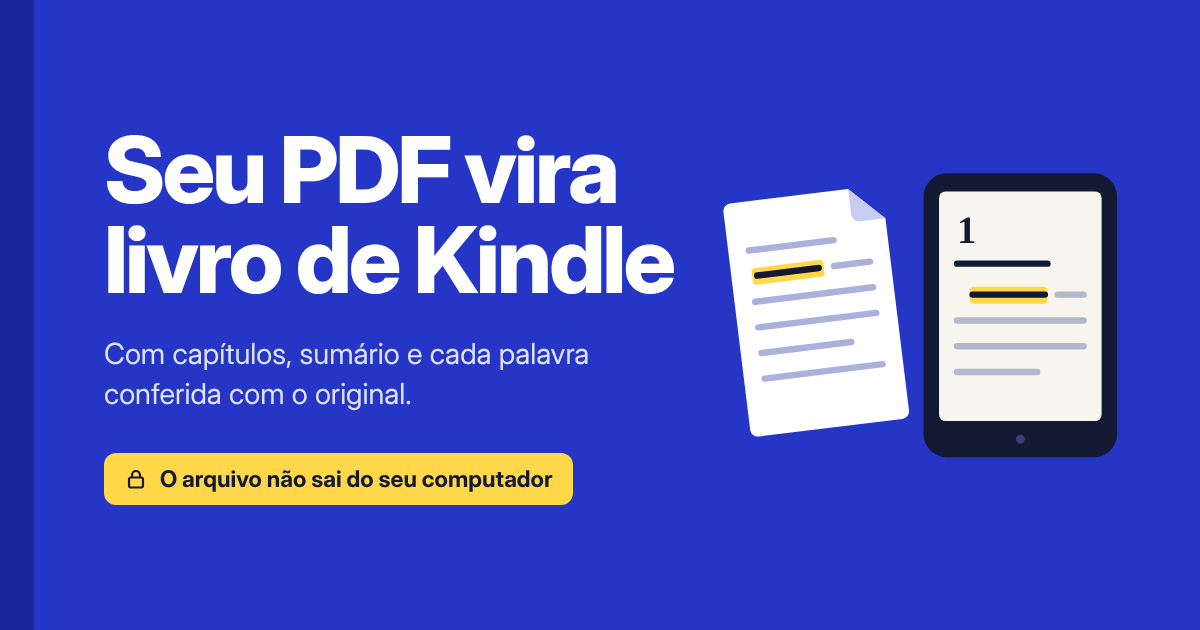
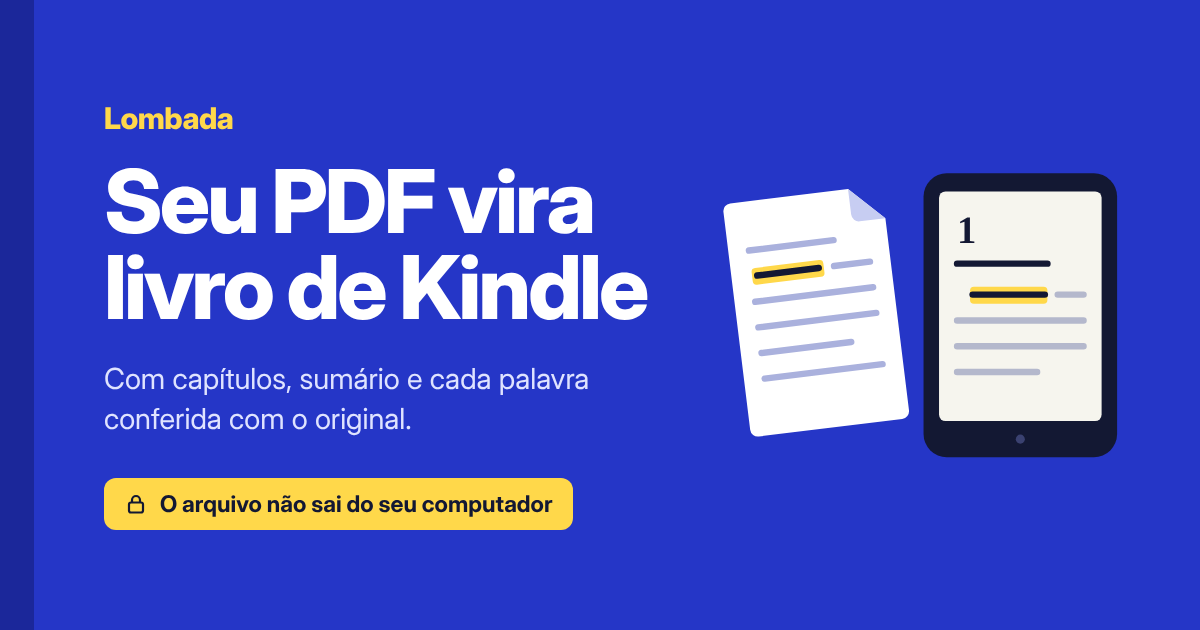
Versão 2.2.0: o app passa a se chamar Lombada
Claude-Session: https://claude.ai/code/session_01K8kEQsfvnjREWZAPRDKx4g

Changed region(s): [[0.0617, 0.181, 0.5858, 0.5127], [0.0617, 0.5429, 0.4933, 0.8444]]

diff --git a/index.html b/index.html
@@ -3,12 +3,12 @@
 <head>
 <meta charset="utf-8">
 <meta name="viewport" content="width=device-width,initial-scale=1,viewport-fit=cover">
-<title>Conversor PDF para EPUB</title>
+<title>Lombada: PDF para EPUB</title>
 <meta name="description" content="Converta PDF em EPUB para ler no Kindle, com capítulos, sumário, páginas numeradas e o texto conferido palavra por palavra. Tudo no seu navegador: o arquivo não sai do seu computador.">
 <meta name="theme-color" content="#2536c7">
 <meta property="og:type" content="website">
-<meta property="og:site_name" content="Conversor PDF para EPUB">
-<meta property="og:title" content="Conversor PDF para EPUB">
+<meta property="og:site_name" content="Lombada">
+<meta property="og:title" content="Lombada: PDF para EPUB">
 <meta property="og:description" content="PDF em EPUB para o Kindle, com capítulos, sumário e o texto igual ao original. Funciona no navegador; seus arquivos não saem do computador.">
 <meta property="og:url" content="https://mizaeldouglas.github.io/conversor-epub/">
 <meta property="og:image" content="https://mizaeldouglas.github.io/conversor-epub/og.png">
@@ -22,7 +22,7 @@
 <link rel="preconnect" href="https://fonts.gstatic.com" crossorigin>
 <link rel="stylesheet" href="https://fonts.googleapis.com/css2?family=Bricolage+Grotesque:opsz,wdth,wght@12..96,75..100,400..800&family=Literata:ital,opsz,wght@0,7..72,400..700;1,7..72,400&display=swap">
 <style>
-/* Conversor PDF para EPUB
+/* Lombada: PDF para EPUB
    Ideia: a página é uma mesa de trabalho clara; a área de soltar é a capa de um livro (azul-ultramar, lombada à esquerda)
    e o amarelo de marca-texto aparece só onde uma palavra é conferida ou uma ação começa.
    A interface fala em grotesca (Bricolage); os livros falam em Literata, a fonte de leitura. */
@@ -73,7 +73,8 @@ a{color:var(--accent);text-underline-offset:2px}
 .top{max-width:1200px;margin:0 auto;padding:18px 20px 14px;display:flex;align-items:center;gap:16px}
 .brand{display:flex;align-items:center;gap:12px;flex:1;min-width:0}
 .brand svg{flex:none}
-.brand h1{font:700 1.12rem/1.2 var(--f-ui);margin:0;letter-spacing:-.01em}
+.brand h1{font:800 1.35rem/1.1 var(--f-ui);margin:0;letter-spacing:-.02em;display:flex;align-items:baseline;gap:10px;flex-wrap:wrap}
+.brand .tag{font:550 13px/1.2 var(--f-ui);letter-spacing:0;color:var(--muted)}
 .top-actions{display:flex;gap:6px;align-items:center}
 
 /* botões */
@@ -368,7 +369,7 @@ body.noscroll{overflow:hidden}
 <header class="top">
   <div class="brand">
     <svg width="36" height="36" viewBox="0 0 40 40" aria-hidden="true"><rect x="6" y="3" width="28" height="34" rx="5" fill="var(--cover)"/><rect x="6" y="3" width="6" height="34" rx="3" fill="var(--cover-deep)"/><path d="M22 3h7.5v15.5L25.75 15 22 18.5z" fill="var(--mark)"/><path d="M16 25h13M16 30h8" stroke="#fff" stroke-width="2.4" stroke-linecap="round"/></svg>
-    <h1>Conversor PDF para EPUB</h1>
+    <h1>Lombada <span class="tag">PDF para EPUB</span></h1>
   </div>
   <div class="top-actions">
     <button class="btn ghost sm" id="installBtn" hidden>Instalar app</button>
@@ -557,11 +558,11 @@ body.noscroll{overflow:hidden}
 </main>
 
 <footer class="foot">
-  <p>Conversor PDF para EPUB, versão <span id="appVersion">2.1.0</span>. Código aberto no <a href="https://github.com/Mizaeldouglas/conversor-epub" target="_blank" rel="noopener">GitHub</a>: veja as <a href="https://github.com/Mizaeldouglas/conversor-epub/blob/main/CHANGELOG.md" target="_blank" rel="noopener">novidades</a> e a <a href="#privacidade" data-open="privacidade">política de privacidade</a>.</p>
+  <p>Lombada, versão <span id="appVersion">2.2.0</span>. Código aberto no <a href="https://github.com/Mizaeldouglas/conversor-epub" target="_blank" rel="noopener">GitHub</a>: veja as <a href="https://github.com/Mizaeldouglas/conversor-epub/blob/main/CHANGELOG.md" target="_blank" rel="noopener">novidades</a> e a <a href="#privacidade" data-open="privacidade">política de privacidade</a>.</p>
 </footer>
 
 <div class="updatebar" id="updateBar" hidden role="status">
-  <span>Saiu uma versão nova do conversor.</span>
+  <span>Saiu uma versão nova do Lombada.</span>
   <button class="btn sm" id="updateBtn">Atualizar agora</button>
   <button class="btn quiet sm" id="updateLater">Depois</button>
 </div>
@@ -607,7 +608,7 @@ pdfjsLib.GlobalWorkerOptions.workerSrc = "https://cdnjs.cloudflare.com/ajax/libs
 const $ = s => document.querySelector(s);
 const W = "http://schemas.openxmlformats.org/wordprocessingml/2006/main";
 const jobs = [];
-const VERSION = "2.1.0";
+const VERSION = "2.2.0";
 const SITE_URL = "https://mizaeldouglas.github.io/conversor-epub/";
 // no site (não no artefato do Claude): app instalável, OCR com os próprios arquivos de idioma
 const ON_SITE = window.top === window && /^https?:$/.test(location.protocol) && !/claude|anthropic/i.test(location.hostname);
@@ -3393,7 +3394,7 @@ $("#wipeBtn").onclick = async () => {
   try { if ("caches" in window) await caches.delete("conversor-epub-compartilhado"); } catch {}
   delete b.dataset.sure; b.textContent = "Apagar tudo o que está guardado neste navegador";
   renderHistory(); renderFixes();
-  toast("Pronto: nada do conversor ficou guardado neste navegador.");
+  toast("Pronto: nada do Lombada ficou guardado neste navegador.");
 };
 
 const drop = $("#drop"), input = $("#file");

diff --git a/src/index.html b/src/index.html
@@ -3,12 +3,12 @@
 <head>
 <meta charset="utf-8">
 <meta name="viewport" content="width=device-width,initial-scale=1,viewport-fit=cover">
-<title>Conversor PDF para EPUB</title>
+<title>Lombada: PDF para EPUB</title>
 <meta name="description" content="Converta PDF em EPUB para ler no Kindle, com capítulos, sumário, páginas numeradas e o texto conferido palavra por palavra. Tudo no seu navegador: o arquivo não sai do seu computador.">
 <meta name="theme-color" content="#2536c7">
 <meta property="og:type" content="website">
-<meta property="og:site_name" content="Conversor PDF para EPUB">
-<meta property="og:title" content="Conversor PDF para EPUB">
+<meta property="og:site_name" content="Lombada">
+<meta property="og:title" content="Lombada: PDF para EPUB">
 <meta property="og:description" content="PDF em EPUB para o Kindle, com capítulos, sumário e o texto igual ao original. Funciona no navegador; seus arquivos não saem do computador.">
 <meta property="og:url" content="@@SITE@@">
 <meta property="og:image" content="@@SITE@@og.png">
@@ -29,7 +29,7 @@
 <header class="top">
   <div class="brand">
     <svg width="36" height="36" viewBox="0 0 40 40" aria-hidden="true"><rect x="6" y="3" width="28" height="34" rx="5" fill="var(--cover)"/><rect x="6" y="3" width="6" height="34" rx="3" fill="var(--cover-deep)"/><path d="M22 3h7.5v15.5L25.75 15 22 18.5z" fill="var(--mark)"/><path d="M16 25h13M16 30h8" stroke="#fff" stroke-width="2.4" stroke-linecap="round"/></svg>
-    <h1>Conversor PDF para EPUB</h1>
+    <h1>Lombada <span class="tag">PDF para EPUB</span></h1>
   </div>
   <div class="top-actions">
     <button class="btn ghost sm" id="installBtn" hidden>Instalar app</button>
@@ -218,11 +218,11 @@
 </main>
 
 <footer class="foot">
-  <p>Conversor PDF para EPUB, versão <span id="appVersion">@@VERSION@@</span>. Código aberto no <a href="https://github.com/Mizaeldouglas/conversor-epub" target="_blank" rel="noopener">GitHub</a>: veja as <a href="https://github.com/Mizaeldouglas/conversor-epub/blob/main/CHANGELOG.md" target="_blank" rel="noopener">novidades</a> e a <a href="#privacidade" data-open="privacidade">política de privacidade</a>.</p>
+  <p>Lombada, versão <span id="appVersion">@@VERSION@@</span>. Código aberto no <a href="https://github.com/Mizaeldouglas/conversor-epub" target="_blank" rel="noopener">GitHub</a>: veja as <a href="https://github.com/Mizaeldouglas/conversor-epub/blob/main/CHANGELOG.md" target="_blank" rel="noopener">novidades</a> e a <a href="#privacidade" data-open="privacidade">política de privacidade</a>.</p>
 </footer>
 
 <div class="updatebar" id="updateBar" hidden role="status">
-  <span>Saiu uma versão nova do conversor.</span>
+  <span>Saiu uma versão nova do Lombada.</span>
   <button class="btn sm" id="updateBtn">Atualizar agora</button>
   <button class="btn quiet sm" id="updateLater">Depois</button>
 </div>

diff --git a/tools/og.html b/tools/og.html
@@ -1,12 +1,13 @@
 <!doctype html><html lang="pt-BR"><head><meta charset="utf-8"><style>
 body{margin:0;width:1200px;height:630px;background:#2536c7;font-family:"Bricolage Grotesque","Inter Display",Inter,sans-serif;color:#fff;display:grid;grid-template-columns:1fr 400px;align-items:center;gap:30px;padding:0 70px 0 104px;box-sizing:border-box;overflow:hidden;position:relative}
 body::before{content:"";position:absolute;inset:0 auto 0 0;width:34px;background:#1b279a}
-h1{font-size:92px;line-height:.98;font-weight:800;margin:0 0 28px;letter-spacing:-3px}
+.wm{font-size:30px;font-weight:800;letter-spacing:-.5px;color:#ffd84a;margin-bottom:22px}
+h1{font-size:88px;line-height:.98;font-weight:800;margin:0 0 28px;letter-spacing:-3px}
 p{font-size:29px;line-height:1.4;margin:0;color:#dfe3ff;max-width:600px}
 .lock{display:inline-flex;gap:12px;align-items:center;margin-top:38px;font-size:23px;color:#131833;background:#ffd84a;font-weight:700;padding:12px 20px;border-radius:12px}
 svg.art{width:400px;height:auto;overflow:visible}
 </style></head><body>
-<div><h1>Seu PDF vira livro de Kindle</h1><p>Com capítulos, sumário e cada palavra conferida com o original.</p>
+<div><div class="wm">Lombada</div><h1>Seu PDF vira livro de Kindle</h1><p>Com capítulos, sumário e cada palavra conferida com o original.</p>
 <div class="lock"><svg width="24" height="24" viewBox="0 0 24 24"><rect x="5" y="10.5" width="14" height="10" rx="2" fill="none" stroke="currentColor" stroke-width="2.2"/><path d="M8 10.5V8a4 4 0 0 1 8 0v2.5" fill="none" stroke="currentColor" stroke-width="2.2"/></svg>O arquivo não sai do seu computador</div></div>
 <svg class="art" viewBox="0 0 310 236"><g transform="rotate(-7 70 190)">
 <path d="M14 30a6 6 0 0 1 6-6h92l26 26v150a6 6 0 0 1-6 6H20a6 6 0 0 1-6-6z" fill="#fff"/><path d="M112 24v20a6 6 0 0 0 6 6h20z" fill="#c7cdf2"/><rect x="30" y="76" width="56" height="13" rx="3" fill="#ffd84a"/>

diff --git a/src/style.css b/src/style.css
@@ -1,4 +1,4 @@
-/* Conversor PDF para EPUB
+/* Lombada: PDF para EPUB
    Ideia: a página é uma mesa de trabalho clara; a área de soltar é a capa de um livro (azul-ultramar, lombada à esquerda)
    e o amarelo de marca-texto aparece só onde uma palavra é conferida ou uma ação começa.
    A interface fala em grotesca (Bricolage); os livros falam em Literata, a fonte de leitura. */
@@ -49,7 +49,8 @@ a{color:var(--accent);text-underline-offset:2px}
 .top{max-width:1200px;margin:0 auto;padding:18px 20px 14px;display:flex;align-items:center;gap:16px}
 .brand{display:flex;align-items:center;gap:12px;flex:1;min-width:0}
 .brand svg{flex:none}
-.brand h1{font:700 1.12rem/1.2 var(--f-ui);margin:0;letter-spacing:-.01em}
+.brand h1{font:800 1.35rem/1.1 var(--f-ui);margin:0;letter-spacing:-.02em;display:flex;align-items:baseline;gap:10px;flex-wrap:wrap}
+.brand .tag{font:550 13px/1.2 var(--f-ui);letter-spacing:0;color:var(--muted)}
 .top-actions{display:flex;gap:6px;align-items:center}
 
 /* botões */

diff --git a/src/js/25-app-instalavel.js b/src/js/25-app-instalavel.js
@@ -55,7 +55,7 @@ $("#wipeBtn").onclick = async () => {
   try { if ("caches" in window) await caches.delete("conversor-epub-compartilhado"); } catch {}
   delete b.dataset.sure; b.textContent = "Apagar tudo o que está guardado neste navegador";
   renderHistory(); renderFixes();
-  toast("Pronto: nada do conversor ficou guardado neste navegador.");
+  toast("Pronto: nada do Lombada ficou guardado neste navegador.");
 };
 
 const drop = $("#drop"), input = $("#file");

diff --git a/sw.js b/sw.js
@@ -1,5 +1,5 @@
-// Conversor PDF para EPUB: funciona sem internet e recebe arquivos pelo "Compartilhar" do celular
-const VERSION = "2.1.0";
+// Lombada (PDF para EPUB): funciona sem internet e recebe arquivos pelo "Compartilhar" do celular
+const VERSION = "2.2.0";
 const CACHE = "conversor-epub-" + VERSION;
 const SHARE = "conversor-epub-compartilhado";
 const CORE = [

diff --git a/src/sw.js b/src/sw.js
@@ -1,4 +1,4 @@
-// Conversor PDF para EPUB: funciona sem internet e recebe arquivos pelo "Compartilhar" do celular
+// Lombada (PDF para EPUB): funciona sem internet e recebe arquivos pelo "Compartilhar" do celular
 const VERSION = "@@VERSION@@";
 const CACHE = "conversor-epub-" + VERSION;
 const SHARE = "conversor-epub-compartilhado";

diff --git a/CHANGELOG.md b/CHANGELOG.md
@@ -1,5 +1,9 @@
 # Novidades
 
+## 2.2.0 — 12 nov 2026
+
+- O app agora se chama Lombada. O endereço do site continua o mesmo.
+
 ## 2.1.0 — 12 nov 2026
 
 - Visual novo: a área de soltar virou a capa de um livro, em azul, com o amarelo de marca-texto nas ações e nas palavras conferidas.

diff --git a/README.md b/README.md
@@ -1,4 +1,4 @@
-# Conversor PDF para EPUB
+# Lombada: PDF para EPUB
 
 Converte PDF em EPUB para ler no Kindle, com capítulos, sumário, notas clicáveis, números de página e o texto conferido palavra por palavra. Roda inteiro no navegador: **o arquivo não sai do seu computador**.
 
